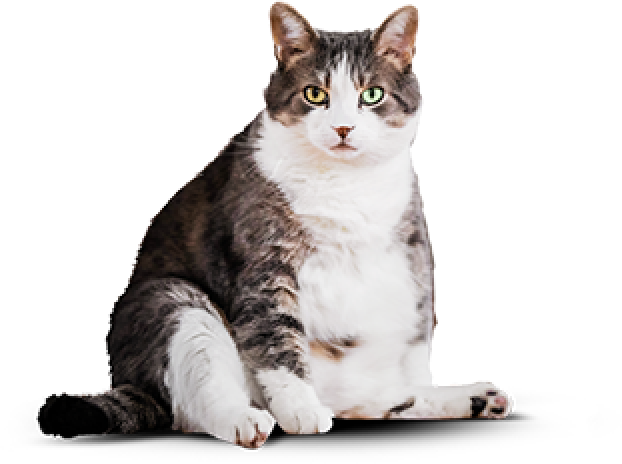
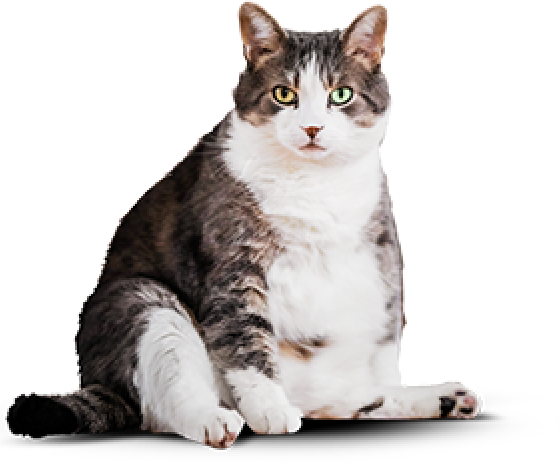
слайдер для мобильной версии

diff --git a/source/less/results/style.less b/source/less/results/style.less
@@ -88,11 +88,18 @@
 }
 
 .results__images {
-  width: calc(200% + @padding);
+  width: 100%;
   display: flex;
   margin-bottom: 21px;
+  margin-right: calc(-@padding / 2);
+  margin-left: calc(-@padding / 2);
   align-items: center;
-  transform-origin: left;
+  transition: transform .3s;
+  transform: translateX(0);
+
+  &--after {
+  transform: translateX(calc(-100% - @padding));
+  }
 
   @media @desktop {
     grid-area: i;
@@ -100,16 +107,14 @@
 }
 
 .results__image-box {
-  width: 100%;
+  min-width: 100%;
   display: flex;
   align-items: flex-start;
   justify-content: center;
   height: 240px;
   max-height: 536px;
-
-  &:first-child {
-    margin-right: @padding;
-  }
+  margin-right: calc(@padding / 2);
+  margin-left: calc(@padding / 2);
 
   @media @tabletonly {
     height: 525px;
@@ -181,6 +186,11 @@
   height: 6px;
   background: #68b738;
   border-radius: 6px;
+  transition: transform .3s;
+
+  &--after {
+    transform: translateX(100%);
+  }
 
   @media @tablet {
     position: absolute;

diff --git a/source/js/before-after.js b/source/js/before-after.js
@@ -1,0 +1,21 @@
+const before = document.querySelector(".buttons__button--before");
+const after = document.querySelector(".buttons__button--after");
+const slide = document.querySelector(".results__images");
+const bar = document.querySelector(".results__bar");
+
+after.addEventListener("click", function (evt) {
+  evt.preventDefault();
+  before.removeAttribute("disabled");
+  after.setAttribute("disabled", "disabled");
+  slide.classList.toggle("results__images--after");
+  bar.classList.add("results__bar--after");
+})
+
+before.addEventListener("click", function (evt) {
+  evt.preventDefault();
+  after.removeAttribute("disabled");
+  before.setAttribute("disabled", "disabled");
+  slide.classList.toggle("results__images--after");
+  bar.classList.remove("results__bar--after");
+})
+

diff --git a/gulpfile.js b/gulpfile.js
@@ -151,6 +151,7 @@ const watcher = () => {
   gulp.watch("source/less/**/*.less", gulp.series(styles));
   gulp.watch("source/js/*.js", gulp.series(scripts));
   gulp.watch("source/*.html", gulp.series(html, reload));
+  gulp.watch("source/img/**/*.{png,jpg,svg}", gulp.series(copyImages, reload));
 }
 
 // Build

diff --git a/source/index.html b/source/index.html
@@ -215,5 +215,6 @@
       </div>
     </footer>
   <script src="js/main-menu.js"></script>
+  <script src="js/before-after.js"></script>
   </body>
 </html>
